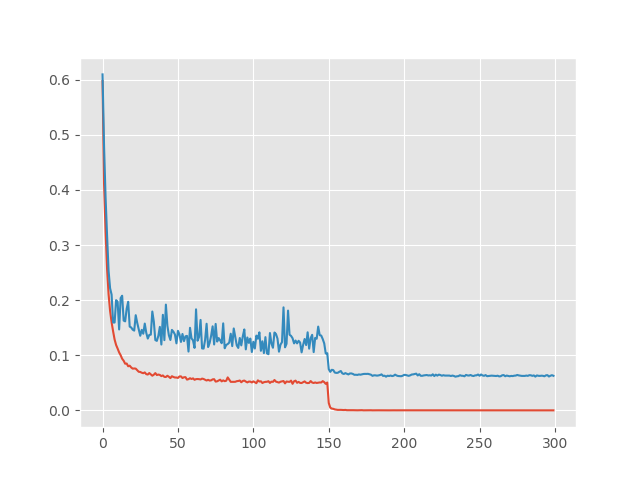
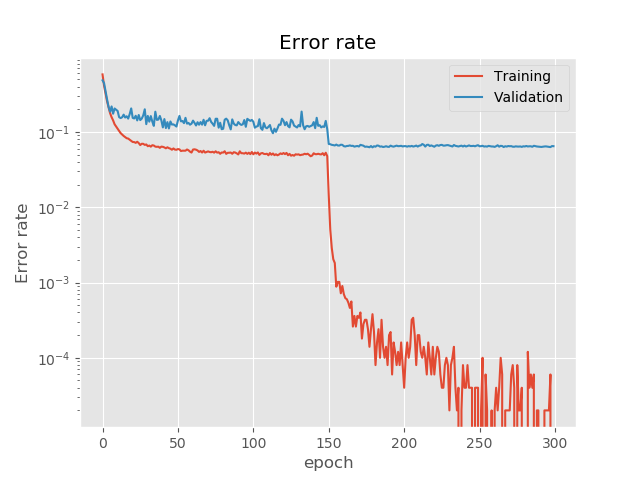
result image legned

diff --git a/src/main.py b/src/main.py
@@ -17,16 +17,11 @@ import numpy as np
 
 from tensorboardX import SummaryWriter
 
+import pickle
+
 from tqdm import tqdm
 import os
-os.environ["CUDA_VISIBLE_DEVICES"]="0,1"
-
-import matplotlib
-if os.environ.get('DISPLAY','') == '':
-    print('no display found. Using non-interactive Agg backend')
-    matplotlib.use('Agg')
-import matplotlib.pyplot as plt
-plt.style.use('ggplot')
+os.environ["CUDA_VISIBLE_DEVICES"]="0"
 
 import shutil
 
@@ -47,6 +42,7 @@ def parse():
     parser.add_argument('--momentum', type=float, default=0.9, help='optimizer momentum')
     parser.add_argument('--cuda', type=str, default='0', help='GPU Index for training')
     parser.add_argument('--log', type=str, default='../result/log', help='tensorboard log directory')
+    parser.add_argument('--result', type=str, default='../result', help='experiment result')
     parser.add_argument('--preceed', type=bool, default=False, help='whether load a pretrain model')
     parser.add_argument('--training_epoch', type=int, default=300, help='total training epoch')
 
@@ -58,38 +54,6 @@ def parse():
     args = parser.parse_args()
     return args
 
-def dataloader(BATCH_SIZE, download=True, shuffle=True, augmentation=False):
-    normal_transformations = transforms.Compose( [transforms.ToTensor(), ])
-
-    trainset = torchvision.datasets.CIFAR10(root='../result/cifar10', train=True, download=download, transform=normal_transformations)
-    trainloader = torch.utils.data.DataLoader(trainset, batch_size=BATCH_SIZE, shuffle=shuffle, num_workers=2)
-
-    testset = torchvision.datasets.CIFAR10(root='../result/cifar10', train=False, download=download, transform=normal_transformations)
-    testloader = torch.utils.data.DataLoader(testset, batch_size=BATCH_SIZE, shuffle=shuffle, num_workers=2)
-    if augmentation :
-        transformation = [
-            transforms.RandomCrop(32),
-            transforms.RandomHorizontalFlip(p=1.0),
-        ]
-
-        augmentation_transformation = transforms.Compose( [
-            transforms.RandomChoice(transformation),
-            transforms.ToTensor(),
-        ] )
-
-        augmentation_trainset = torchvision.datasets.CIFAR10(root='../result/cifar10', train=True, download=download, transform=augmentation_transformation)
-        augmentation_trainloader = torch.utils.data.DataLoader(augmentation_trainset, batch_size=BATCH_SIZE, shuffle=shuffle, num_workers=2)
-        return trainloader, testloader, augmentation_trainloader
-
-
-    return trainloader, testloader
-def plot(*data_points_list, filename="plot", log_scale=True) :
-    if log_scale :
-        plt.yscale('log')
-    for data_points in data_points_list :
-        plt.plot(data_points)
-    plt.savefig(filename)
-    plt.close()
 def training_setting(model, optimizer, lr, device, log, criterion, ):
     pass
 
@@ -99,6 +63,12 @@ def run(args):
     log = args.log
     device = torch.device('cuda:'+args.cuda)
     LR = args.learning_rate
+    result=args.result
+    if not os.path.isdir(result) :
+        os.mkdir( result, 0o755 );
+    if os.path.isdir(log) :
+        shutil.rmtree(log)
+    writer = SummaryWriter(log)
 
     trainloader, testloader = dataloader(BATCH_SIZE)
     
@@ -129,16 +99,21 @@ def run(args):
     criterion = nn.CrossEntropyLoss()
 
     epoch = 0
-    if os.path.isdir(log) :
-        shutil.rmtree(log)
-    writer = SummaryWriter(log)
     
     training_error_rate, testing_error_rate, \
     training_loss, testing_loss = train(model, optimizer, criterion, trainloader, testloader, 
                                         device, channel_normalization, writer, opt, LR, 
                                         max_epoch = args.training_epoch, )
-    plot(training_loss, testing_loss, filename='../result/loss')
-    plot(training_error_rate, testing_error_rate, filename='../result/error_rate', log_scale=False)
+    loss = dict({'Training':training_loss, 'Validation':testing_loss})
+    error_rate = dict({'Training':training_error_rate, 'Validation':testing_error_rate})
+    
+    with open('../result/loss.pickle', 'wb') as file :
+        pickle.dump(loss, file)
+    with open('../result/error_rate.pickle', 'wb') as file :
+        pickle.dump(error_rate, file)
+    
+    plot(loss, filename='../result/loss', ylabel='Loss', title='Loss')
+    plot(error_rate, filename='../result/error_rate', ylabel='Error rate', title='Error rate')
     
 if __name__ == '__main__':
     args = parse()

diff --git a/src/utils/utils.py b/src/utils/utils.py
@@ -10,6 +10,15 @@ import numpy as np
 
 from tqdm import tqdm
 
+import matplotlib
+
+import os
+if os.environ.get('DISPLAY','') == '':
+    print('no display found. Using non-interactive Agg backend')
+    matplotlib.use('Agg')
+import matplotlib.pyplot as plt
+plt.style.use('ggplot')
+
 def channel_normalization( inputs, stddev = 1e-2, channel_dim = [2,3] ) :
     return ( inputs - inputs.mean(dim=channel_dim, keepdim=True) ) \
             / inputs.std(dim=channel_dim, keepdim=True) * stddev
@@ -117,3 +126,40 @@ def train(model,
 
     print('Finished Training')
     return training_error_rate_list, testing_error_rate_list, training_loss_list, testing_loss_list
+
+def dataloader(BATCH_SIZE, download=True, shuffle=True, augmentation=False):
+    normal_transformations = transforms.Compose( [transforms.ToTensor(), ])
+
+    trainset = torchvision.datasets.CIFAR10(root='../result/cifar10', train=True, download=download, transform=normal_transformations)
+    trainloader = torch.utils.data.DataLoader(trainset, batch_size=BATCH_SIZE, shuffle=shuffle, num_workers=2)
+
+    testset = torchvision.datasets.CIFAR10(root='../result/cifar10', train=False, download=download, transform=normal_transformations)
+    testloader = torch.utils.data.DataLoader(testset, batch_size=BATCH_SIZE, shuffle=shuffle, num_workers=2)
+    if augmentation :
+        transformation = [
+            transforms.RandomCrop(32),
+            transforms.RandomHorizontalFlip(p=1.0),
+        ]
+
+        augmentation_transformation = transforms.Compose( [
+            transforms.RandomChoice(transformation),
+            transforms.ToTensor(),
+        ] )
+
+        augmentation_trainset = torchvision.datasets.CIFAR10(root='../result/cifar10', train=True, download=download, transform=augmentation_transformation)
+        augmentation_trainloader = torch.utils.data.DataLoader(augmentation_trainset, batch_size=BATCH_SIZE, shuffle=shuffle, num_workers=2)
+        return trainloader, testloader, augmentation_trainloader
+
+
+    return trainloader, testloader
+def plot(data_points_dict, filename="plot", log_scale=True, xlabel='epoch', ylabel='error', title='title') :
+    if log_scale :
+        plt.yscale('log')
+    for label, data_points in data_points_dict.items() :
+        plt.plot(data_points, label=label)
+    plt.xlabel(xlabel)
+    plt.ylabel(ylabel)
+    plt.title(title)
+    plt.legend()
+    plt.savefig(filename)
+    plt.close()
